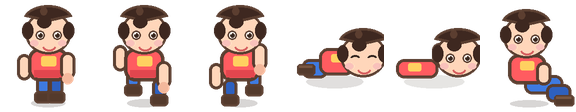
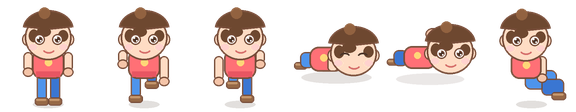
UX40 preview: nicer child, lift animals by fill, reclaim floating blocks (tip 9272aa4)

diff --git a/yangyang-game-preview/index.html b/yangyang-game-preview/index.html
@@ -577,7 +577,7 @@
 <div id="app">
   <canvas id="view" width="800" height="400"></canvas>
   <div id="hud">
-    <span id="build-version" aria-label="Build version">build cd91b62+ux39</span>
+    <span id="build-version" aria-label="Build version">build cd91b62+ux40</span>
     <div class="topbar">
       <button id="quest" type="button">
         <canvas id="quest-icon" width="128" height="128"></canvas>
@@ -4230,7 +4230,7 @@ function validConversation(value, p) {
     updateQuest();
     saveSoon();
   }
-  function mine(tx, ty, fromBreak) {
+  function mine(tx, ty, fromBreak, loose) {
     var id = get(tx, ty);
     // Rod/boat on water: tap-to-use only. Break always digs so water leaves a mark.
     if (id === WATER && !fromBreak) {
@@ -4238,7 +4238,7 @@ function validConversation(value, p) {
       if (sk === 'rod') { if (inReach(tx, ty)) startFishing(tx, ty); return; }
       if (sk === 'boat') { if (inReach(tx, ty)) placeBoat(tx, ty); return; }
     }
-    if (!mineable(id) || !inReach(tx, ty)) {
+    if (!mineable(id) || (!loose && !inReach(tx, ty))) {
       var key = KEY_OF[id];
       if (key) showWord(key);
       return;
@@ -4266,6 +4266,29 @@ function validConversation(value, p) {
   }
   function wallSupport(id) {
     return id === GRASS || id === DIRT || id === SAND || id === STONE || id === PLANKS || id === WOOD || id === HOUSE || id === BEDROCK;
+  }
+  // Misplaced fill blocks and windows with nothing under them. Leaves stay, so a tree canopy is not a pile of floating blocks.
+  var RECLAIM_FLOAT = {};
+  [GRASS, DIRT, SAND, STONE, WOOD, PLANKS, HOUSE, WINDOW].forEach(function (id) { RECLAIM_FLOAT[id] = 1; });
+  function blockIsFloating(tx, ty) {
+    var id = get(tx, ty);
+    if (!RECLAIM_FLOAT[id]) return false;
+    if (solid(get(tx, ty + 1))) return false;
+    if (id === WINDOW && (wallSupport(get(tx - 1, ty)) || wallSupport(get(tx + 1, ty)))) return false;
+    return true;
+  }
+  function craftableFloating(b) {
+    if (!b) return false;
+    var y = Math.floor(b.y + b.h), x, n = 0, seen = 0;
+    for (x = Math.floor(b.x); x < Math.ceil(b.x + b.w); x++) {
+      if (x < 0 || x >= W) continue;
+      seen++;
+      if (y >= 0 && y < H && solid(get(x, y))) n++;
+    }
+    return seen > 0 && n === 0;
+  }
+  function reclaimReach(tx, ty) {
+    return inReach(tx, ty) || fillReach(tx, ty);
   }
   // Where a crafted item is allowed to sit. Empty string means the spot is fine.
   function specialPlaceLine(key, tx, ty) {
@@ -4660,7 +4683,8 @@ function validConversation(value, p) {
   function fillCellOpen(key, tx, ty) {
     if (tx < 1 || ty < 1 || tx >= W - 1 || ty >= H - 1) return false;
     if (!fillReach(tx, ty) || get(tx, ty) !== AIR) return false;
-    if (cellHasAnimal(tx, ty) || craftableAt(tx, ty)) return false;
+    if (craftableAt(tx, ty)) return false;
+    // An animal in this cell is lifted onto the new block, not treated as a wall.
     if (specialPlaceLine(key, tx, ty)) return false;
     return true;
   }
@@ -4716,7 +4740,9 @@ function validConversation(value, p) {
       return;
     }
     if (!fillCellOpen(key, tx, ty) || !solid(get(tx, ty + 1))) return;
+    var snap = bodySnap();
     if (!liftForFill(tx, ty)) {
+      bodyRestore(snap);
       if (!h.spokeBad) { h.spokeBad = true; showToast('No room!', 1.6); }
       h.blocked = true;
       return;
@@ -4726,12 +4752,25 @@ function validConversation(value, p) {
       h.filled[id] = 1;
       h.placedN++;
       if (!h.saidItem) { h.saidItem = true; showWord(buildMode ? buildMaterial() : key); }
+    } else bodyRestore(snap);
+  }
+  function bodySnap() {
+    return {
+      x: player.x, y: player.y, vy: player.vy, g: onGround,
+      list: animals.map(function (a) { return [a, a.x, a.y, a.vx]; })
+    };
+  }
+  function bodyRestore(s) {
+    player.x = s.x; player.y = s.y; player.vy = s.vy; onGround = s.g;
+    var i;
+    for (i = 0; i < s.list.length; i++) {
+      s.list[i][0].x = s.list[i][1];
+      s.list[i][0].y = s.list[i][2];
+      s.list[i][0].vx = s.list[i][3];
     }
   }
-  function liftForFill(tx, ty) {
-    if (!overlapsPlayer(tx, ty)) return !collides(player.x, player.y);
-    if (!solid(get(tx, ty + 1))) return false;
-    var savedX = player.x, savedY = player.y, foot = ty * TILE - 0.01;
+  function standSpots(tx, ty) {
+    var foot = ty * TILE - 0.01;
     var spots = [{ x: (tx + 0.5) * TILE, y: foot }];
     var step, dir, nx;
     for (step = 1; step <= 3; step++) {
@@ -4742,20 +4781,98 @@ function validConversation(value, p) {
         spots.push({ x: (nx + 0.5) * TILE, y: foot });
       }
     }
-    var i, s;
+    return spots;
+  }
+  function animalsInCell(tx, ty) {
+    var list = [], i, a;
+    for (i = 0; i < animals.length; i++) {
+      a = animals[i];
+      if (a.x + 12 > tx * TILE && a.x - 12 < (tx + 1) * TILE && a.y > ty * TILE && a.y - 24 < (ty + 1) * TILE) list.push(a);
+    }
+    return list;
+  }
+  function animalClearance(type) {
+    if (type === 'horse' || type === 'cow') return 40;
+    if (type === 'sheep' || type === 'pig') return 30;
+    return 22;
+  }
+  function animalStandOk(a, x, y, tx, ty) {
+    var col = Math.floor(x / TILE);
+    if (col < 1 || col >= W - 1) return false;
+    var top = y - animalClearance(a.type);
+    var y0 = Math.floor(top / TILE);
+    var y1 = Math.floor((y - 1) / TILE);
+    var row;
+    for (row = y0; row <= y1; row++) if (solid(get(col, row))) return false;
+    var under = Math.floor((y + 2) / TILE);
+    if (solid(get(col, under))) return true;
+    return col === tx && under === ty;
+  }
+  function liftPlayerForFill(tx, ty) {
+    if (!overlapsPlayer(tx, ty)) return !collides(player.x, player.y);
+    var spots = standSpots(tx, ty), i, s;
+    var sx = player.x, sy = player.y, sv = player.vy, sg = onGround;
     for (i = 0; i < spots.length; i++) {
       s = spots[i];
-      if (collides(s.x, s.y)) continue;
       player.x = s.x;
       player.y = s.y;
       player.vy = 0;
       onGround = true;
       if (!overlapsPlayer(tx, ty) && !collides(player.x, player.y)) return true;
     }
-    player.x = savedX;
-    player.y = savedY;
-    player.vy = 0;
+    player.x = sx; player.y = sy; player.vy = sv; onGround = sg;
     return false;
+  }
+  function liftAnimalsForFill(tx, ty) {
+    var group = animalsInCell(tx, ty);
+    if (!group.length) return true;
+    var spots = standSpots(tx, ty);
+    var saved = group.map(function (a) { return { a: a, x: a.x, y: a.y, vx: a.vx }; });
+    var g, i, s, ax, ok;
+    for (g = 0; g < group.length; g++) {
+      ok = false;
+      for (i = 0; i < spots.length; i++) {
+        s = spots[i];
+        ax = s.x + (g === 0 ? 0 : (g % 2 ? 6 : -6));
+        if (!animalStandOk(group[g], ax, s.y, tx, ty)) continue;
+        group[g].x = ax;
+        group[g].y = s.y;
+        group[g].vx = 0;
+        group[g].wait = Math.max(group[g].wait || 0, 0.35);
+        ok = true;
+        break;
+      }
+      if (!ok) {
+        for (i = 0; i < saved.length; i++) {
+          saved[i].a.x = saved[i].x; saved[i].a.y = saved[i].y; saved[i].a.vx = saved[i].vx;
+        }
+        return false;
+      }
+    }
+    if (animalsInCell(tx, ty).length) {
+      for (i = 0; i < saved.length; i++) {
+        saved[i].a.x = saved[i].x; saved[i].a.y = saved[i].y; saved[i].a.vx = saved[i].vx;
+      }
+      return false;
+    }
+    return true;
+  }
+  function liftForFill(tx, ty) {
+    var needPal = animalsInCell(tx, ty).length > 0;
+    var needPlayer = overlapsPlayer(tx, ty);
+    if (!needPlayer && !needPal) return !collides(player.x, player.y);
+    if (!solid(get(tx, ty + 1))) return false;
+    var sx = player.x, sy = player.y, sv = player.vy, sg = onGround;
+    if (!liftPlayerForFill(tx, ty)) return false;
+    if (!liftAnimalsForFill(tx, ty)) {
+      player.x = sx; player.y = sy; player.vy = sv; onGround = sg;
+      return false;
+    }
+    if (collides(player.x, player.y) || overlapsPlayer(tx, ty)) {
+      player.x = sx; player.y = sy; player.vy = sv; onGround = sg;
+      return false;
+    }
+    return true;
   }
   function dragPaint(h) {
     if (!isMultiPlace(activePlaceKey())) return;
@@ -4832,6 +4949,19 @@ function validConversation(value, p) {
   function tapWorld(wx, wy, sx, sy, fy) {
     var ropeTx = Math.floor(wx / TILE), ropeTy = Math.floor(wy / TILE), ropeId = get(ropeTx, ropeTy);
     if (!(ropeId !== AIR && mineable(ropeId)) && ropeHit(wx, wy)) { climbRope(); return; }
+    var floated = craftableAt(ropeTx, ropeTy);
+    if (floated && craftableFloating(floated) && reclaimReach(ropeTx, ropeTy)) {
+      if ((inv[floated.item] || 0) >= 99) { showToast('Use some materials first!', 1.6); return; }
+      removeCraftable(floated);
+      showWord(floated.item);
+      return;
+    }
+    if (blockIsFloating(ropeTx, ropeTy) && reclaimReach(ropeTx, ropeTy)) {
+      var back = KEY_OF[get(ropeTx, ropeTy)];
+      if (back && (inv[back] || 0) >= 99) { showToast('Use some materials first!', 1.6); return; }
+      mine(ropeTx, ropeTy, true, true);
+      return;
+    }
     if(interactObject(wx,wy))return;
     if (boat) {
       var bdx = wx - boat.x, bdy = wy - (boat.y - 8);
